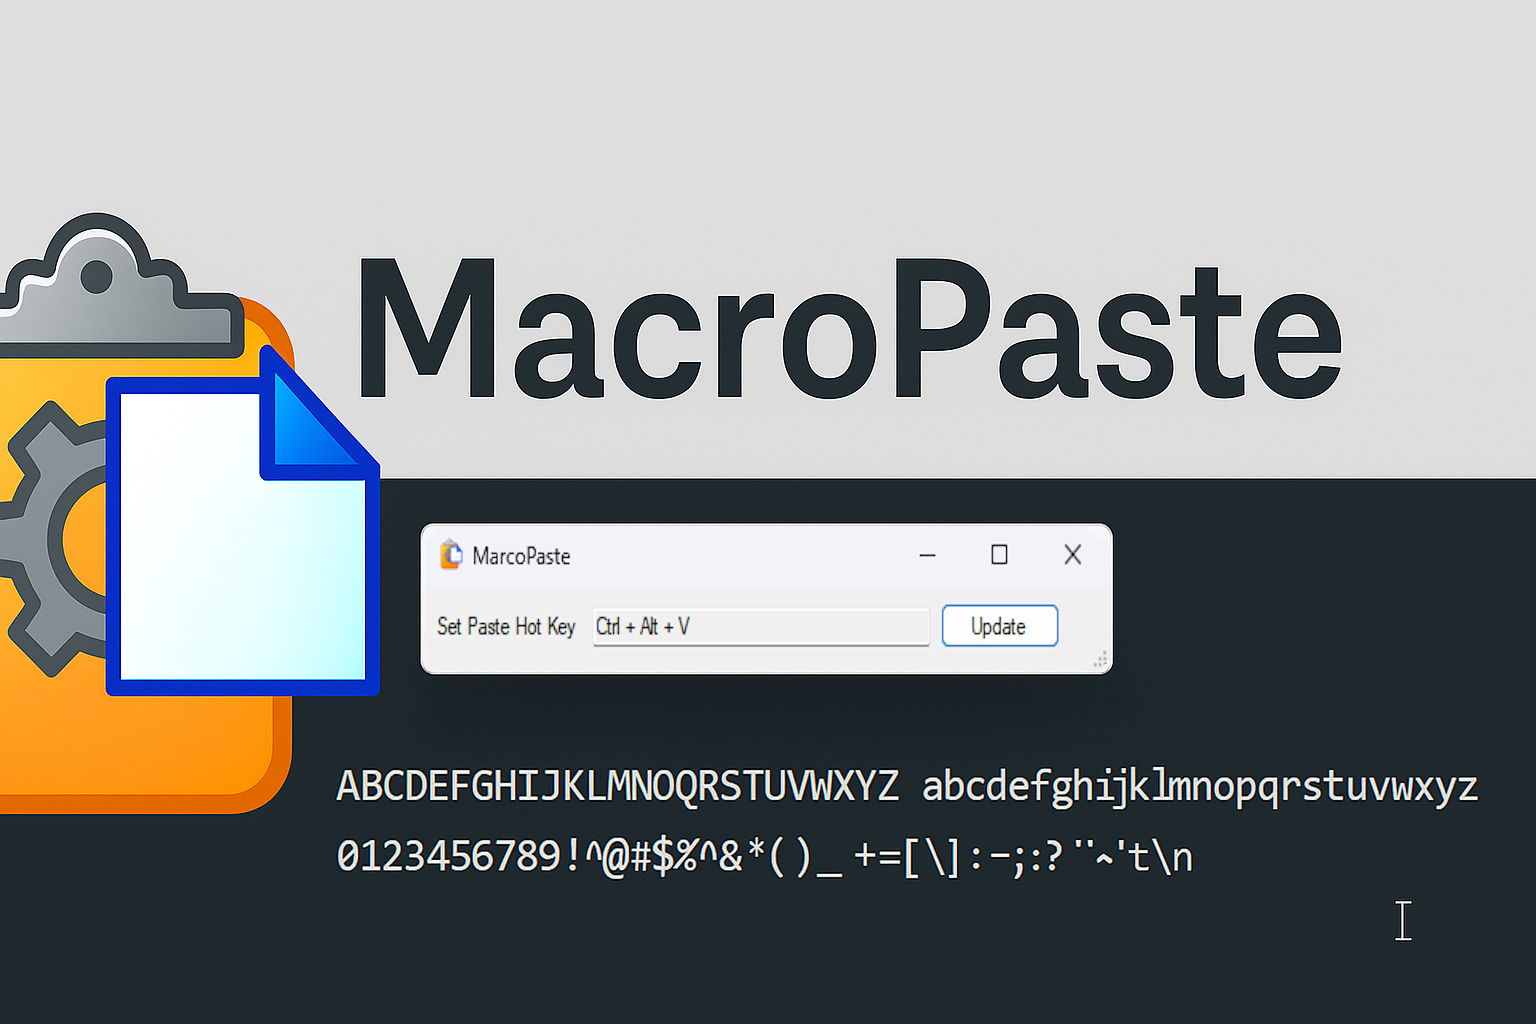
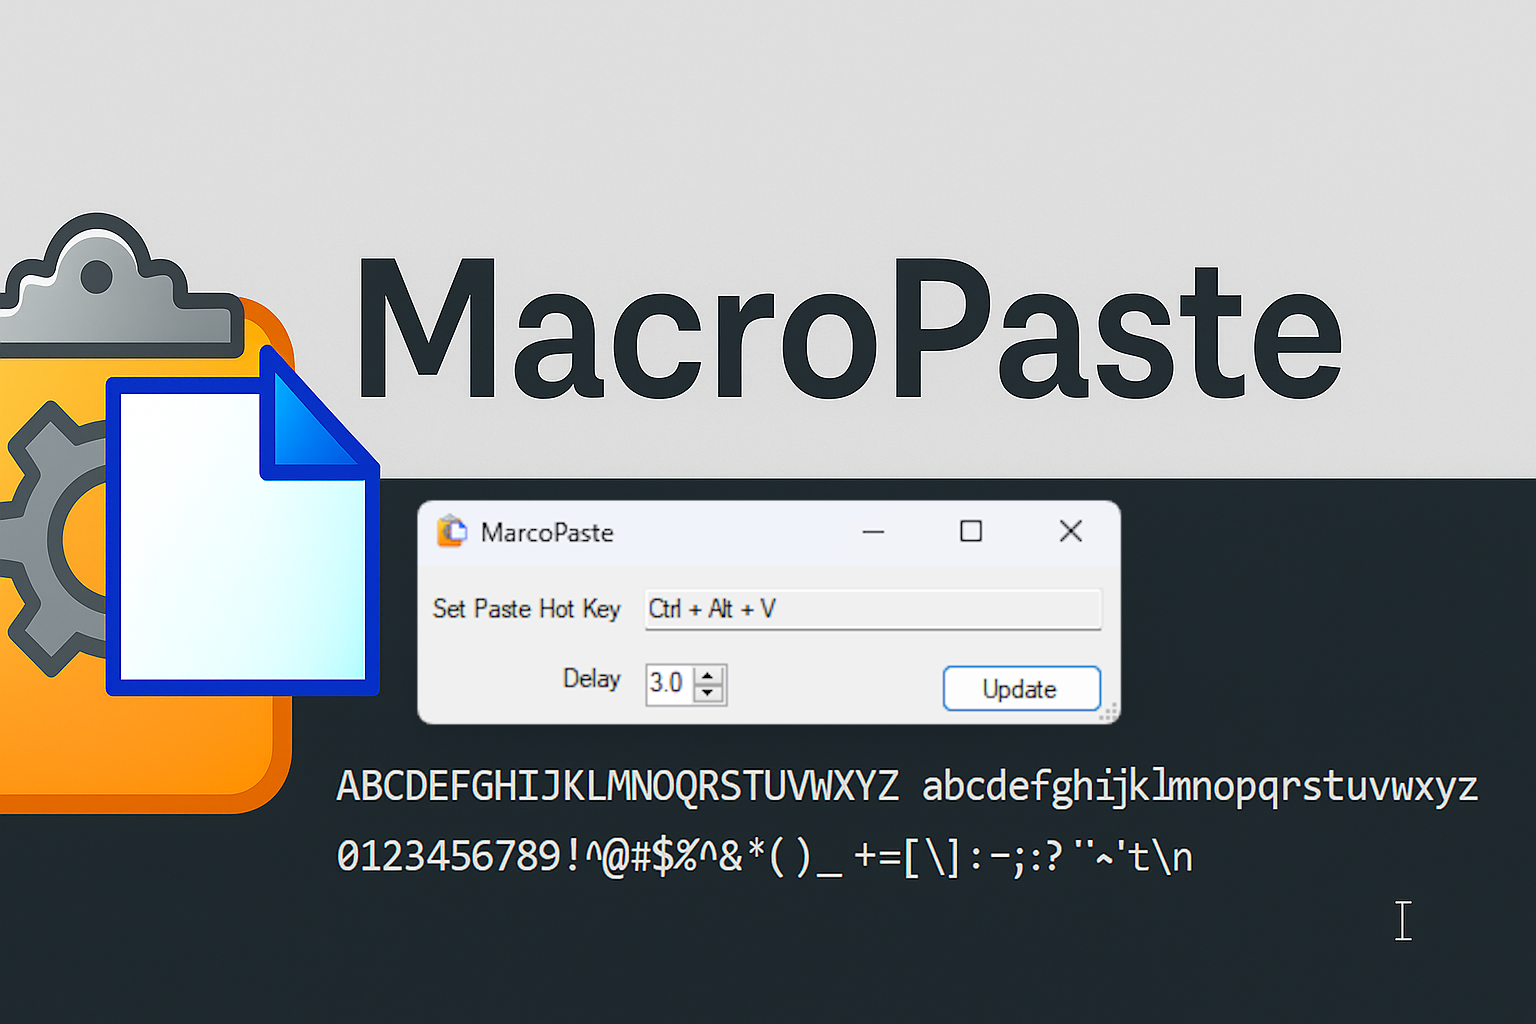
docs update

Changed region(s): [[0.25, 0.4688, 0.75, 0.7188]]

diff --git a/src/TrayAppContext.cs b/src/TrayAppContext.cs
@@ -132,6 +132,16 @@ namespace MacroCopyPaste
                 case ']': return "{]}";
                 case '{': return "{{}";
                 case '}': return "{}}";
+                case '0': return "{0}";
+                case '1': return "{1}";
+                case '2': return "{2}";
+                case '3': return "{3}";
+                case '4': return "{4}";
+                case '5': return "{5}";
+                case '6': return "{6}";
+                case '7': return "{7}";
+                case '8': return "{8}";
+                case '9': return "{9}";
                 default: return c.ToString();
             }
         }
@@ -166,6 +176,7 @@ namespace MacroCopyPaste
 
                     string keyToSend = EscapeSendKeysChar(c);
                     SendKeys.SendWait(keyToSend);
+                    System.Threading.Thread.Sleep(10);
                 }
             }
             else

diff --git a/README.md b/README.md
@@ -26,13 +26,13 @@ Right-click the tray icon and choose **Set Hotkey** to configure your preferred 
 ### ![Hotkey UI](./docs/MacroPaste_02.png)
 1. Click inside the **Hotkey** text box.
 2. Press your desired key combination.
-3. Click **Update** to save the new hotkey.
-
+3. Adjust the Paste Time Delay if necessary.
+4. Click **Update** to update settings.
 ---
 
 ## Using MacroPaste
 ### ![Using the Tool](./docs/MacroPaste_03.gif)
-When you're in a remote interface that doesn’t support paste, simply use your configured hotkey (default: **Ctrl + Alt + V**) and MacroPaste will type out the contents of your clipboard.
+When you're in a remote interface that doesn’t support paste, simply use your configured hotkey (default: **Ctrl + Alt + V**) and MacroPaste will count down then type out the contents of your clipboard.
 
 ---
 
